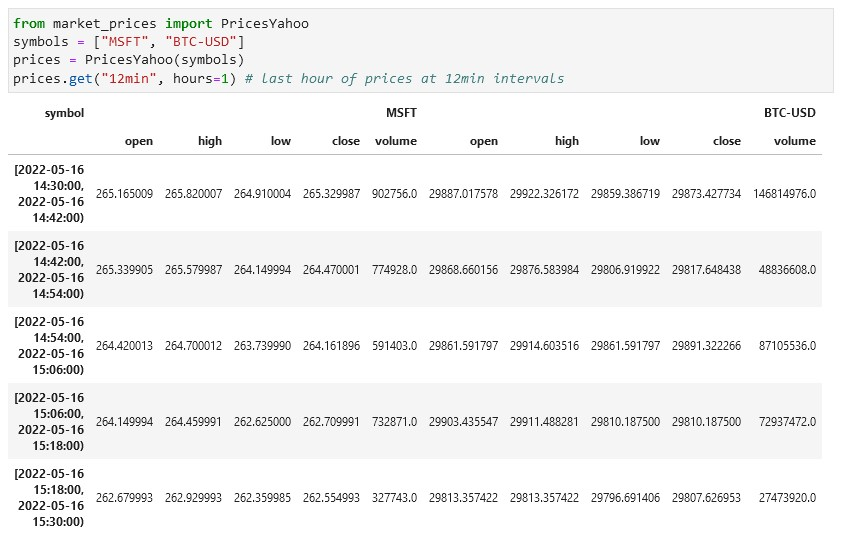
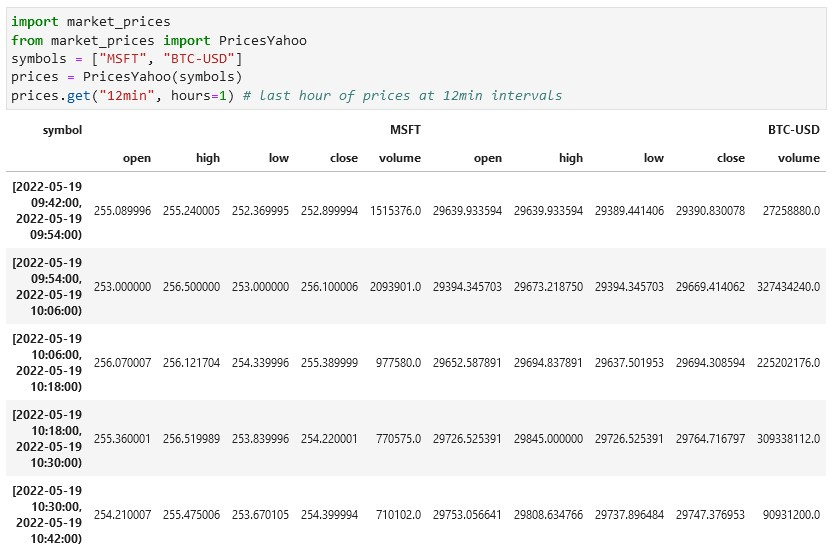
Update README.md
Updates README screenshot.
Minor doc revisions.

diff --git a/README.md b/README.md
@@ -7,7 +7,7 @@ A python library to create **meaningful** OHLCV datasets.
 
 Works out-the-box with prices from the Yahoo Finance API (see [Disclaimers](https://github.com/maread99/market_prices#disclaimers)).
 
-<img src="./docs/media/readme_pt.jpg" alt="screenshot">
+<img src="./docs/media/readme_pt.png" alt="screenshot">
 
 ## Features include:
 * Include **securities trading on different exchanges** with differing opening hours across different time zones.

diff --git a/docs/tutorials_docs.md b/docs/tutorials_docs.md
@@ -96,6 +96,9 @@ Contributions to `market_prices` are certainly welcome. If you are looking to co
 * typing specifications.
 * documentation specifications.
 
+[testing.md](./developers/testing.md) :
+* Data from yahoo API is unreliable for test suite
+
 [other_internals.md](./developers/other_internals.md) :
 * Considerations for intervals that are not a factor of (sub)session length.
 * `daterange.GetterIntraday.daterange_tight`
